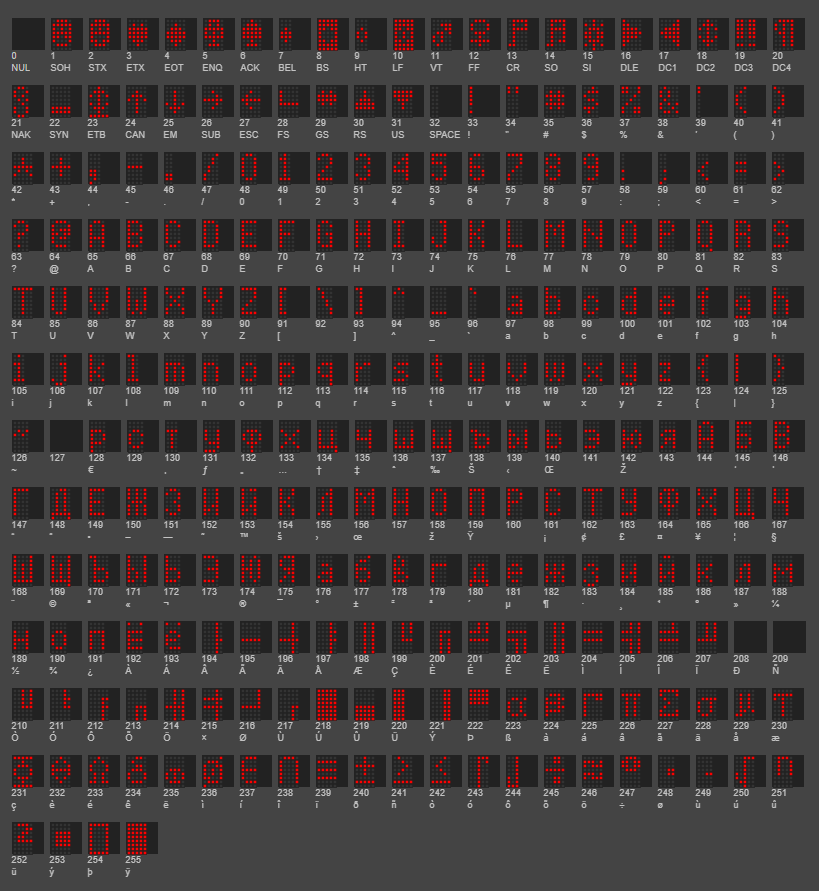
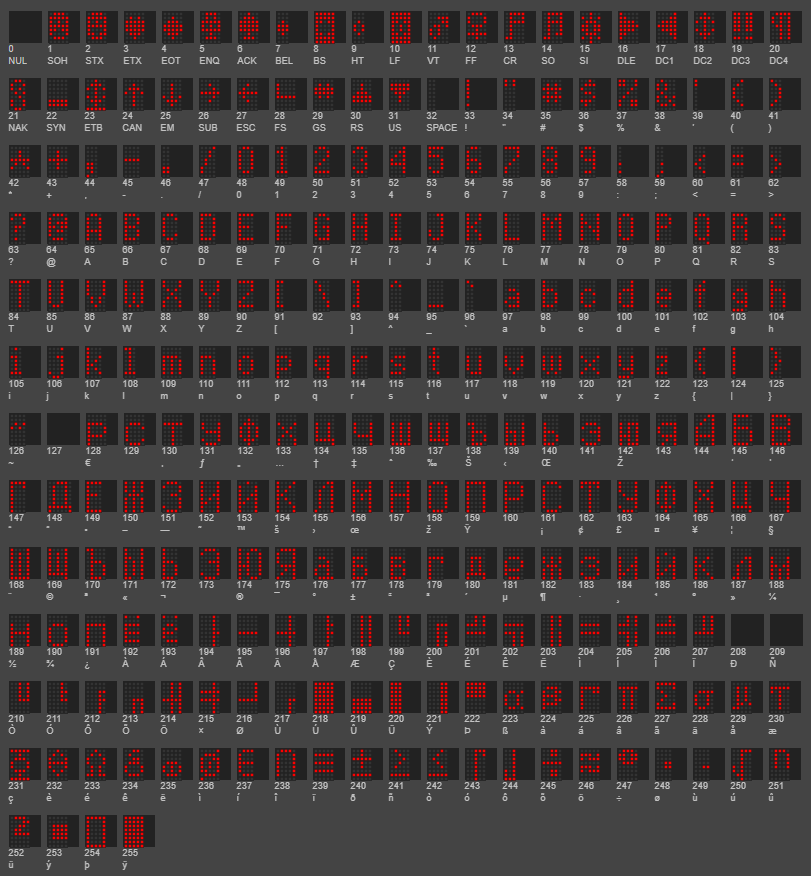
[P104] Updated Cyrillic ext. font with a more visually pleasing character set

Changed region(s): [[0.0, 0.0, 1.0, 0.9863], [0.3391, 0.4007, 0.3699, 0.4315]]

diff --git a/src/src/Static/Fonts/P104_font_cyr_ext.h b/src/src/Static/Fonts/P104_font_cyr_ext.h
@@ -130,70 +130,70 @@ MD_MAX72XX::fontType_t font_cyr_ext[] PROGMEM = // ASCII with Cyrillic extension
   3, 65,  54,  8,                               // 125 - }
   4, 8,   4,   8,   4,                          // 126 - ~
   0,                                            // 127 - 0
-  4, 252, 36,  36,  24,                         // 128 - р
-  4, 56,  68,  68,  40,                         // 129 - с
-  3, 4,   124, 4,                               // 130 - т
-  4, 156, 160, 160, 124,                        // 131 - у
-  5, 24,  36,  252, 36, 24,                     // 132 - ф
-  5, 68,  40,  16,  40, 68,                     // 133 - х
-  5, 124, 64,  64,  124, 192,                   // 134 - ц
-  4, 28,  16,  16,  124,                        // 135 - ч
-  5, 124, 64,  112, 64, 124,                    // 136 - ш
-  5, 124, 64,  112, 64, 252,                    // 137 - щ
-  5, 4,   124, 72,  72, 48,                     // 138 - ъ
-  5, 124, 72,  48,  0, 124,                     // 139 - ы
-  4, 124, 72,  72,  48,                         // 140 - ь
-  4, 68,  84,  84,  56,                         // 141 - э
-  5, 124, 16,  56,  68, 56,                     // 142 - ю
-  4, 72,  52,  20,  124,                        // 143 - я
-  4, 126, 17,  17,  126,                        // 144 - А
-  4, 127, 73,  73,  49,                         // 145 - Б
-  4, 127, 73,  73,  54,                         // 146 - В
-  4, 127, 1,   1,   1,                          // 147 - Г
-  5, 192, 126, 65,  127, 192,                   // 148 - Д
-  4, 127, 73,  73,  65,                         // 149 - Е
-  5, 119, 8,   127, 8, 119,                     // 150 - Ж
-  4, 34,  65,  73,  54,                         // 151 - З
-  4, 127, 32,  16,  127,                        // 152 - И
-  4, 127, 32,  17,  125,                        // 153 - Й
-  4, 127, 8,   20,  99,                         // 154 - К
-  4, 64,  60,  2,   127,                        // 155 - Л
-  5, 127, 2,   12,  2, 127,                     // 156 - М
-  4, 127, 8,   8,   127,                        // 157 - Н
-  4, 62,  65,  65,  62,                         // 158 - О
-  4, 127, 1,   1,   127,                        // 159 - П
-  4, 127, 9,   9,   6,                          // 160 - Р
-  4, 62,  65,  65,  34,                         // 161 - С
-  5, 1,   1,   127, 1, 1,                       // 162 - Т
-  4, 71,  72,  72,  63,                         // 163 - У
-  5, 14,  17,  127, 17, 14,                     // 164 - Ф
-  5, 99,  20,  8,   20, 99,                     // 165 - Х
-  5, 127, 64,  64,  127, 192,                   // 166 - Ц
-  4, 15,  8,   8,   127,                        // 167 - Ч
-  5, 127, 64,  124, 64, 127,                    // 168 - Ш
-  5, 127, 64,  124, 64, 255,                    // 169 - Щ
-  5, 1,   127, 72,  72, 48,                     // 170 - Ъ
-  5, 127, 72,  48,  0, 127,                     // 171 - Ы
-  4, 127, 72,  72,  48,                         // 172 - Ь
-  4, 65,  73,  73,  62,                         // 173 - Э
-  5, 127, 8,   62,  65, 62,                     // 174 - Ю
-  4, 70,  41,  25,  127,                        // 175 - Я
-  4, 32,  84,  84,  120,                        // 176 - а
-  4, 60,  74,  74,  49,                         // 177 - б
-  4, 126, 89,  86,  32,                         // 178 - в
-  4, 124, 4,   4,   4,                          // 179 - г
-  5, 192, 120, 68,  124, 192,                   // 180 - д
-  4, 56,  84,  84,  24,                         // 181 - е
-  5, 108, 16,  124, 16, 108,                    // 182 - ж
-  4, 72,  132, 148, 104,                        // 183 - з
-  4, 124, 32,  16,  124,                        // 184 - и
-  4, 124, 33,  17,  124,                        // 185 - й
-  4, 124, 16,  40,  68,                         // 186 - к
-  4, 64,  56,  4,   124,                        // 187 - л
-  5, 124, 8,   16,  8, 124,                     // 188 - м
-  4, 124, 16,  16,  124,                        // 189 - н
-  4, 56,  68,  68,  56,                         // 190 - о
-  4, 124, 4,   4,   124,                        // 191 - п
+  5, 252, 36, 36, 36, 24,                       // 128 - 'р'
+  5, 120, 132, 132, 132, 72,                    // 129 - 'с'
+  5, 4, 4, 252, 4, 4,                           // 130 - 'т'
+  5, 76, 144, 144, 144, 124,                    // 131 - 'у'
+  5, 56, 68, 254, 68, 56,                       // 132 - 'ф'
+  5, 196, 40, 16, 40, 196,                      // 133 - 'х'
+  5, 124, 64, 64, 124, 192,                     // 134 - 'ц'
+  5, 28, 32, 32, 32, 252,                       // 135 - 'ч'
+  5, 252, 128, 252, 128, 252,                   // 136 - 'ш'
+  5, 124, 64, 124, 64, 252,                     // 137 - 'щ'
+  5, 4, 252, 144, 144, 96,                      // 138 - 'ъ'
+  5, 252, 144, 240, 0, 252,                     // 139 - 'ы'
+  4, 252, 144, 144, 96,                         // 140 - 'ь'
+  5, 72, 132, 148, 148, 120,                    // 141 - 'э'
+  5, 252, 32, 252, 132, 252,                    // 142 - 'ю'
+  5, 24, 164, 100, 36, 252,                     // 143 - 'я'
+  5, 248, 36, 34, 33, 255,                      // 144 - 'А'
+  5, 255, 137, 137, 137, 112,                   // 145 - 'Б'
+  5, 255, 137, 137, 137, 118,                   // 146 - 'В'
+  4, 255, 1, 1, 3,                              // 147 - 'Г'
+  6, 192, 126, 65, 65, 127, 192,                // 148 - 'Д'
+  4, 255, 137, 137, 129,                        // 149 - 'Е'
+  5, 247, 8, 255, 8, 247,                       // 150 - 'Ж'
+  5, 66, 129, 137, 137, 118,                    // 151 - 'З'
+  5, 255, 32, 16, 8, 255,                       // 152 - 'И'
+  5, 254, 32, 17, 8, 254,                       // 153 - 'Й'
+  5, 255, 8, 20, 34, 193,                       // 154 - 'К'
+  5, 128, 124, 2, 1, 255,                       // 155 - 'Л'
+  5, 255, 4, 24, 4, 255,                        // 156 - 'М'
+  5, 255, 8, 8, 8, 255,                         // 157 - 'Н'
+  5, 126, 129, 129, 129, 126,                   // 158 - 'О'
+  5, 255, 1, 1, 1, 255,                         // 159 - 'П'
+  5, 255, 17, 17, 17, 14,                       // 160 - 'Р'
+  5, 126, 129, 129, 129, 66,                    // 161 - 'С'
+  5, 3, 1, 255, 1, 3,                           // 162 - 'Т'
+  5, 71, 136, 144, 144, 127,                    // 163 - 'У'
+  5, 60, 66, 255, 66, 60,                       // 164 - 'Ф'
+  5, 227, 20, 8, 20, 227,                       // 165 - 'Х'
+  5, 127, 64, 64, 127, 192,                     // 166 - 'Ц'
+  5, 15, 16, 16, 16, 255,                       // 167 - 'Ч'
+  5, 255, 128, 254, 128, 255,                   // 168 - 'Ш'
+  5, 127, 64, 126, 64, 255,                     // 169 - 'Щ'
+  5, 1, 255, 136, 136, 112,                     // 170 - 'Ъ'
+  5, 255, 132, 120, 0, 255,                     // 171 - 'Ы'
+  4, 255, 136, 136, 112,                        // 172 - 'Ь'
+  5, 66, 129, 137, 137, 126,                    // 173 - 'Э'
+  6, 255, 16, 126, 129, 129, 126,               // 174 - 'Ю'
+  5, 142, 81, 49, 17, 255,                      // 175 - 'Я'
+  5, 96, 148, 148, 248, 128,                    // 176 - 'а'
+  4, 252, 148, 148, 96,                         // 177 - 'б'
+  4, 252, 148, 148, 104,                        // 178 - 'в'
+  4, 252, 4, 4, 12,                             // 179 - 'г'
+  5, 192, 124, 68, 124, 192,                    // 180 - 'д'
+  5, 120, 164, 164, 164, 24,                    // 181 - 'е'
+  5, 236, 16, 252, 16, 236,                     // 182 - 'ж'
+  5, 72, 132, 148, 148, 104,                    // 183 - 'з'
+  5, 252, 64, 32, 16, 252,                      // 184 - 'и'
+  5, 252, 64, 34, 16, 252,                      // 185 - 'й'
+  5, 252, 16, 40, 68, 128,                      // 186 - 'к'
+  5, 128, 240, 8, 4, 252,                       // 187 - 'л'
+  5, 252, 16, 224, 16, 252,                     // 188 - 'м'
+  5, 252, 16, 16, 16, 252,                      // 189 - 'н'
+  5, 120, 132, 132, 132, 120,                   // 190 - 'о'
+  5, 252, 4, 4, 4, 252,                         // 191 - 'п'
   4, 125, 84,  84,  85,                         // 192 - Ё
   4, 57,  84,  84,  73,                         // 193 - ё
   5, 0,   0,   0,   255, 16,                    // 194 - Left T
